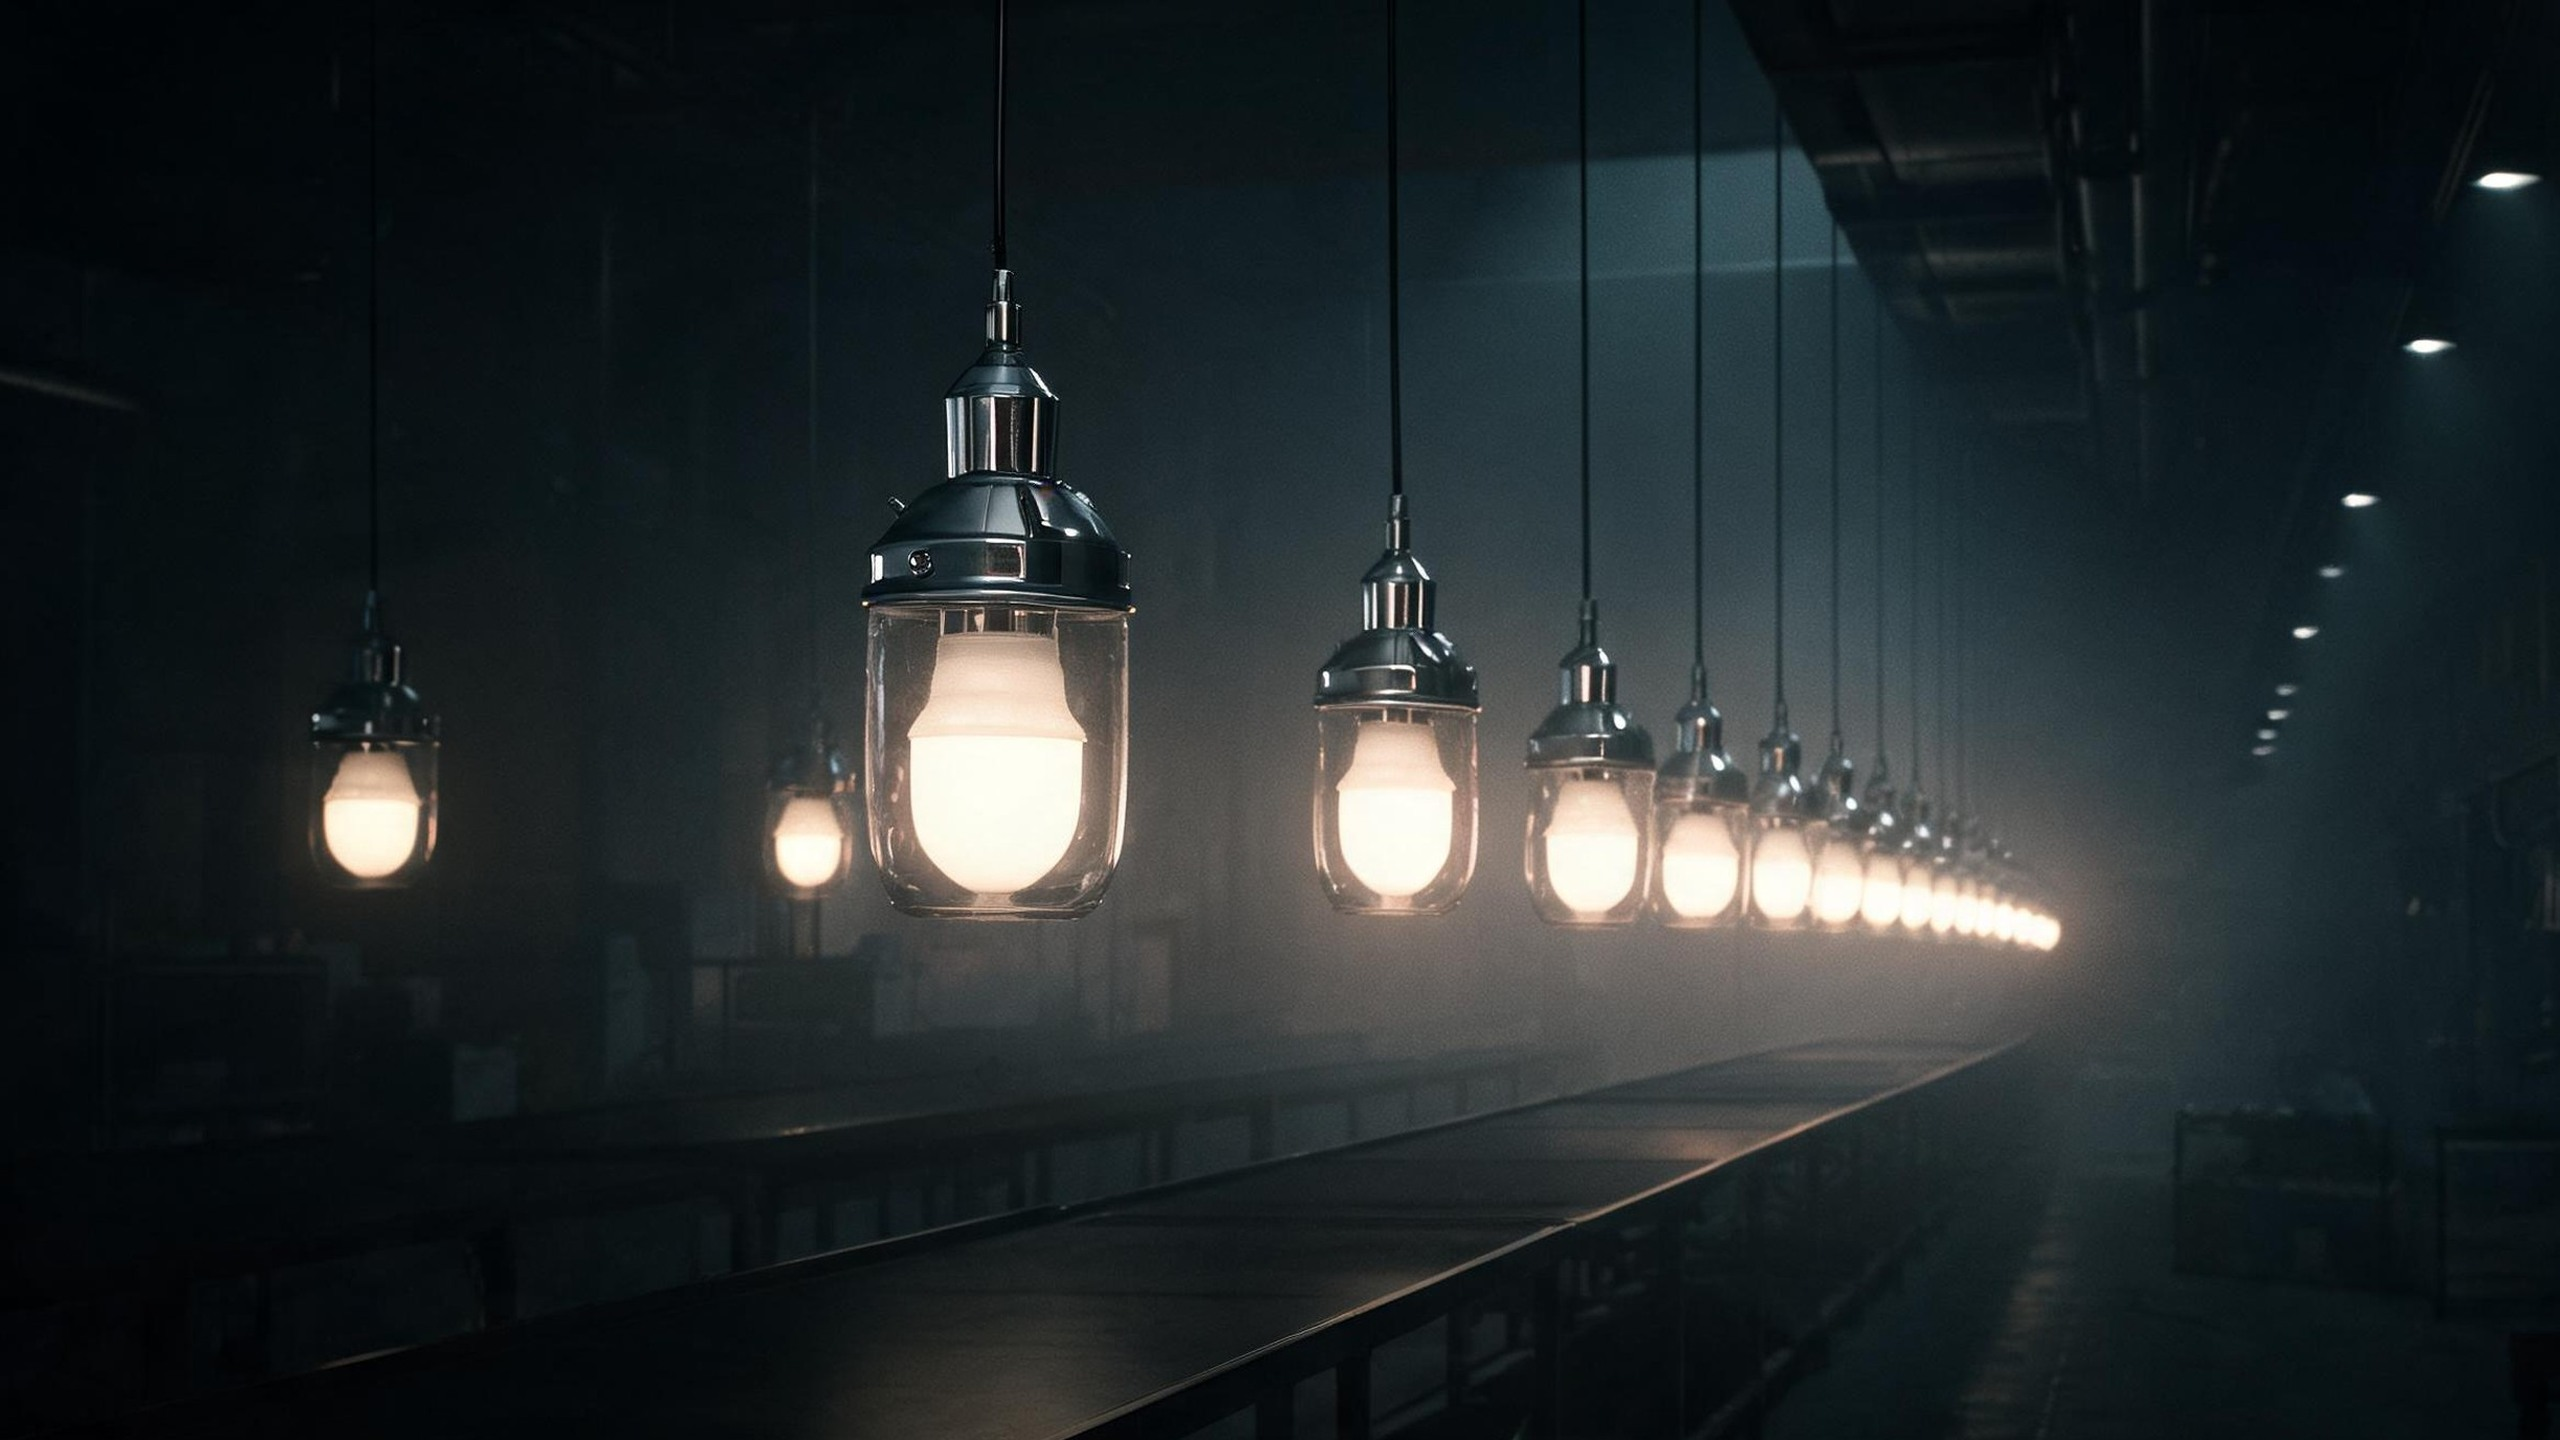
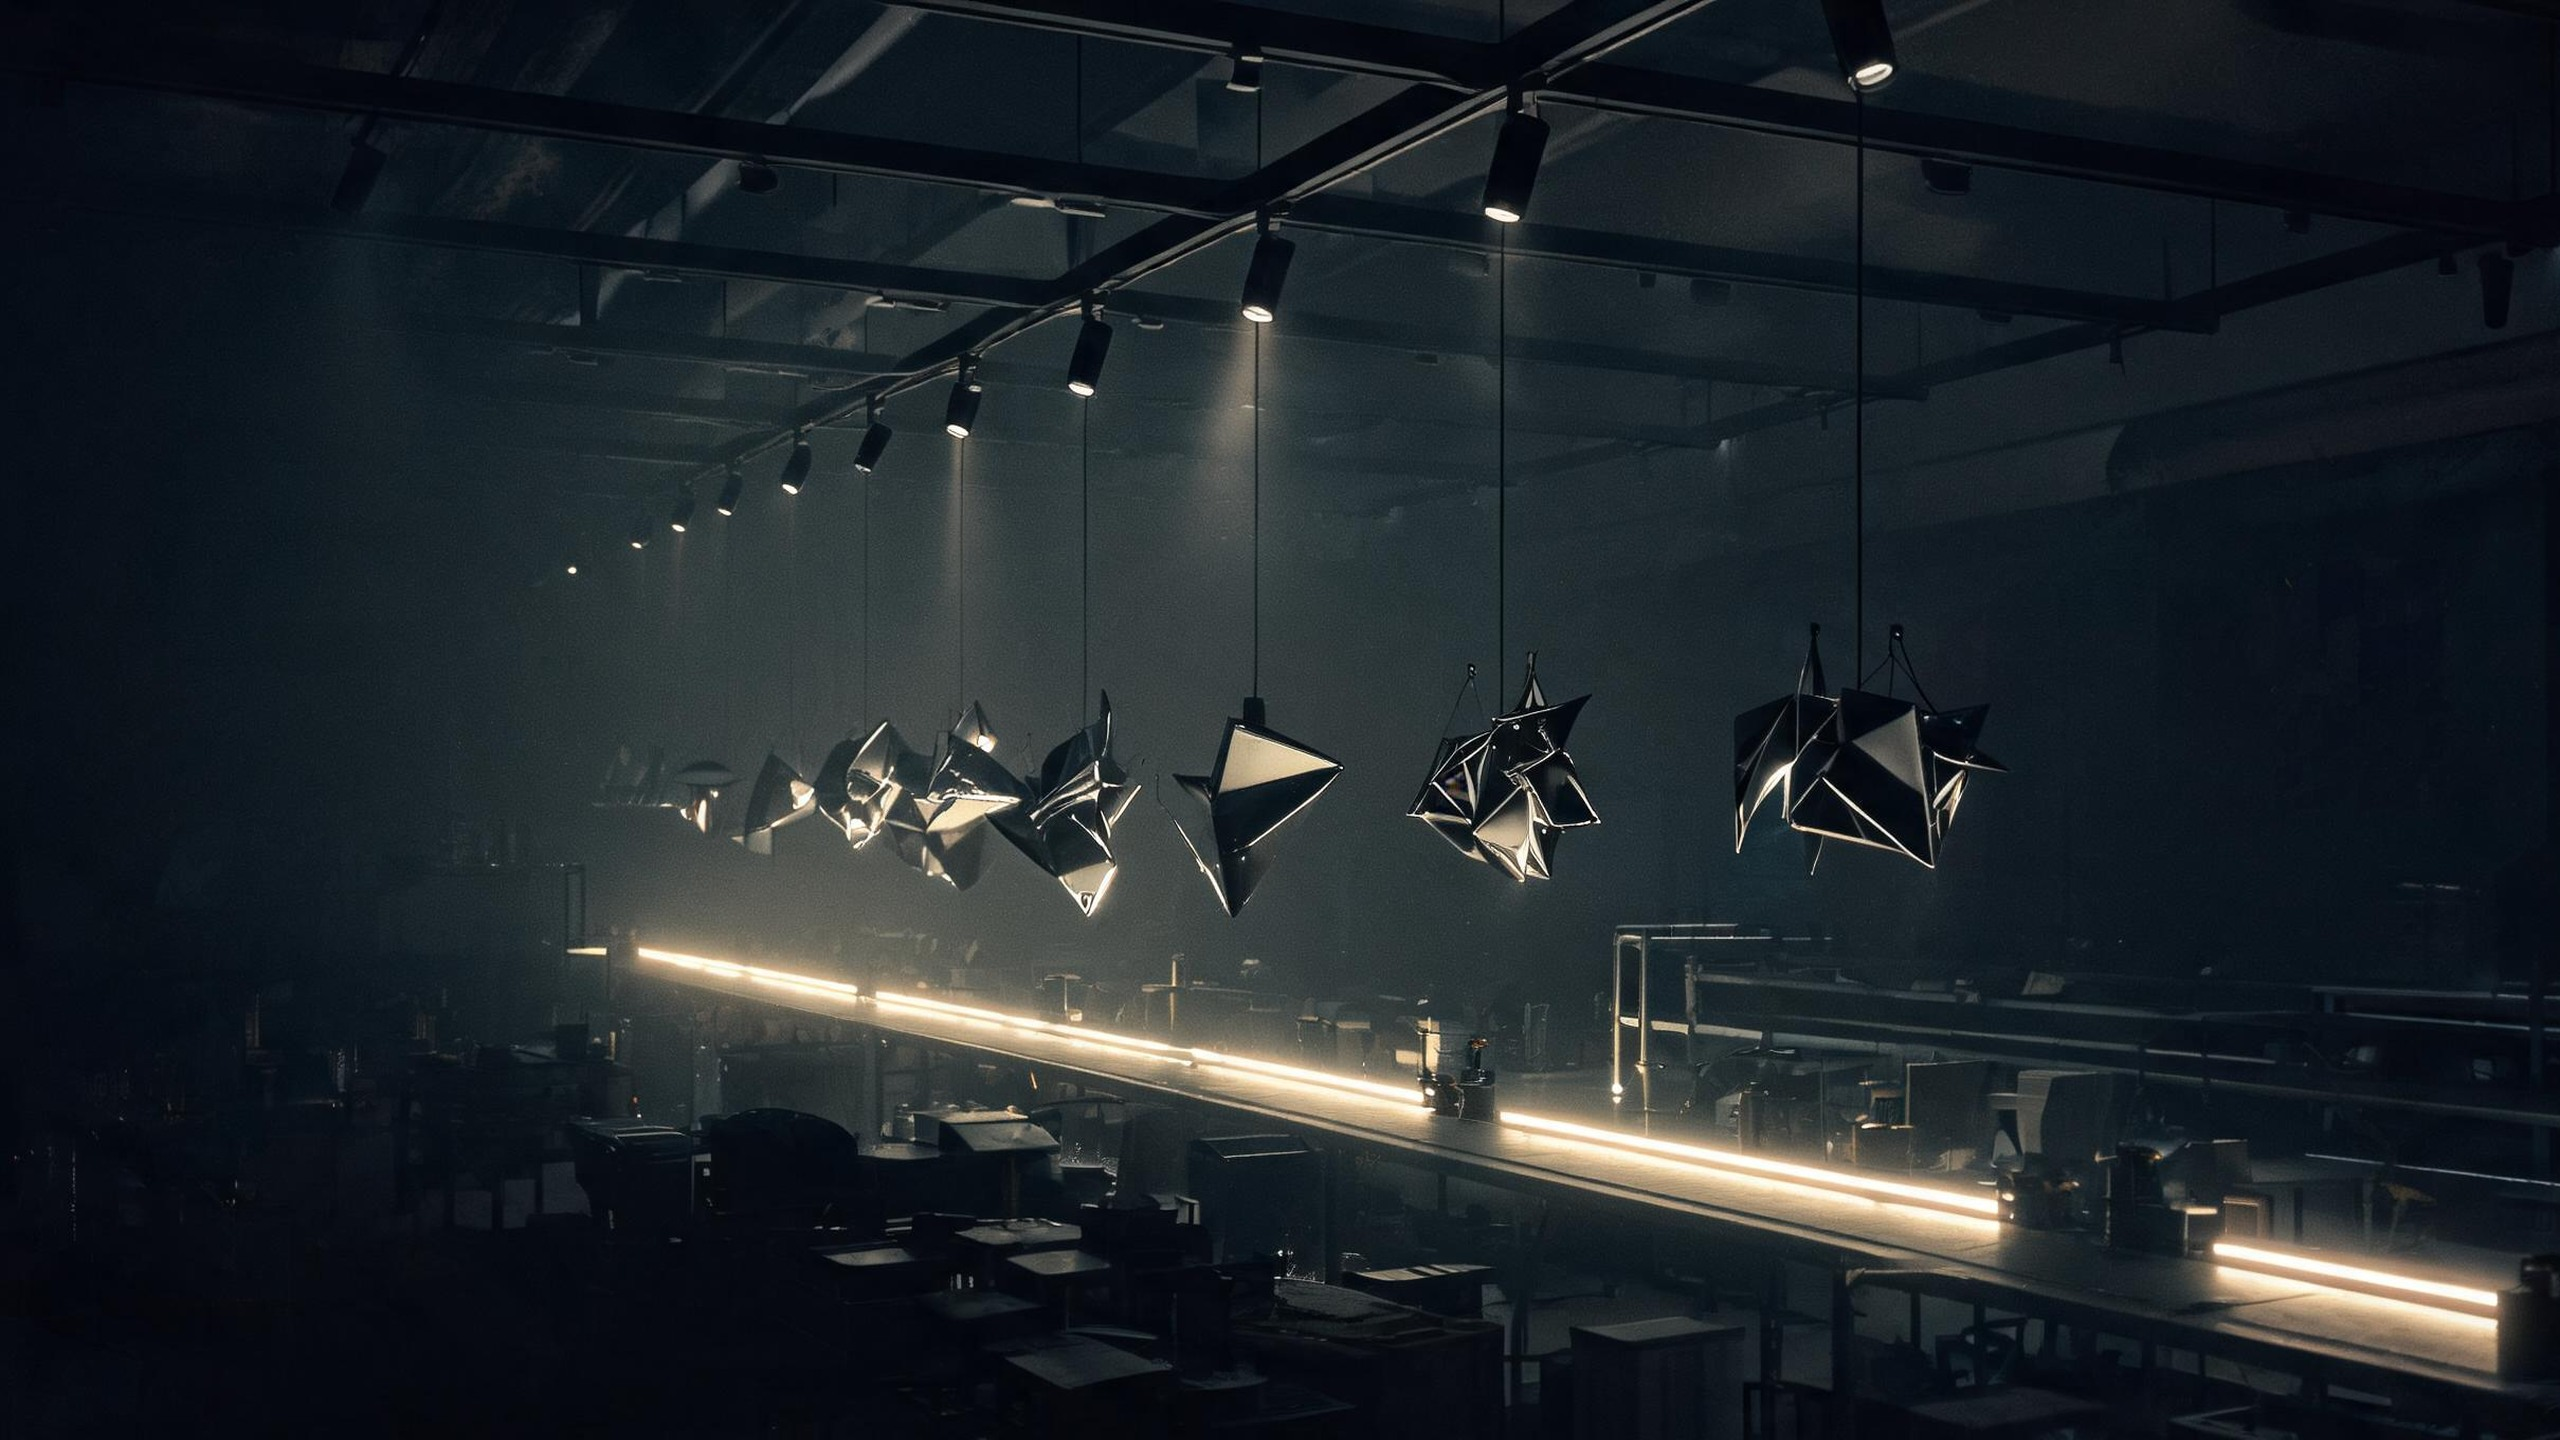
Give Products its own hero and swap Factory to track/sculptural/linear lighting

diff --git a/layouts/_partials/head.html b/layouts/_partials/head.html
@@ -40,7 +40,7 @@
 <link rel="preconnect" href="https://fonts.googleapis.com">
 <link rel="preconnect" href="https://fonts.gstatic.com" crossorigin>
 <link href="https://fonts.googleapis.com/css2?family=Inter+Tight:ital,wght@0,300;0,400;0,500;1,300&family=Instrument+Serif:ital@0;1&display=swap" rel="stylesheet">
-<link rel="stylesheet" href="{{ "css/imperial.css" | absURL }}?v=20261110g">
+<link rel="stylesheet" href="{{ "css/imperial.css" | absURL }}?v=20261110h">
 {{ partial "schema.html" . }}
 {{- with site.Params.cloudflareAnalyticsToken }}
 <script defer src="https://static.cloudflareinsights.com/beacon.min.js" data-cf-beacon='{"token":"{{ . }}"}'></script>

diff --git a/layouts/products/list.html b/layouts/products/list.html
@@ -99,7 +99,7 @@
 {{- else -}}
   {{- $series := .Sections -}}
   <section class="page-hero page-hero--media">
-    <div class="page-hero__media" aria-hidden="true"><img src="{{ "images/hero-interior.jpg" | absURL }}" alt="" width="1680" height="2139"></div>
+    <div class="page-hero__media" aria-hidden="true"><img src="{{ "images/hero-collection.jpg" | absURL }}" alt="" width="2560" height="1440"></div>
     <div class="page-hero__scrim" aria-hidden="true"></div>
     <div class="shell">
       {{ partial "breadcrumbs.html" (slice (dict "name" "Home" "url" ("" | absURL)) (dict "name" "Products" "url" .RelPermalink)) }}

diff --git a/layouts/baseof.html b/layouts/baseof.html
@@ -10,6 +10,6 @@
   </main>
   {{ partial "footer.html" . }}
   {{ partial "whatsapp.html" . }}
-  <script src="{{ "js/site.js" | absURL }}?v=20261110g" defer></script>
+  <script src="{{ "js/site.js" | absURL }}?v=20261110h" defer></script>
 </body>
 </html>
